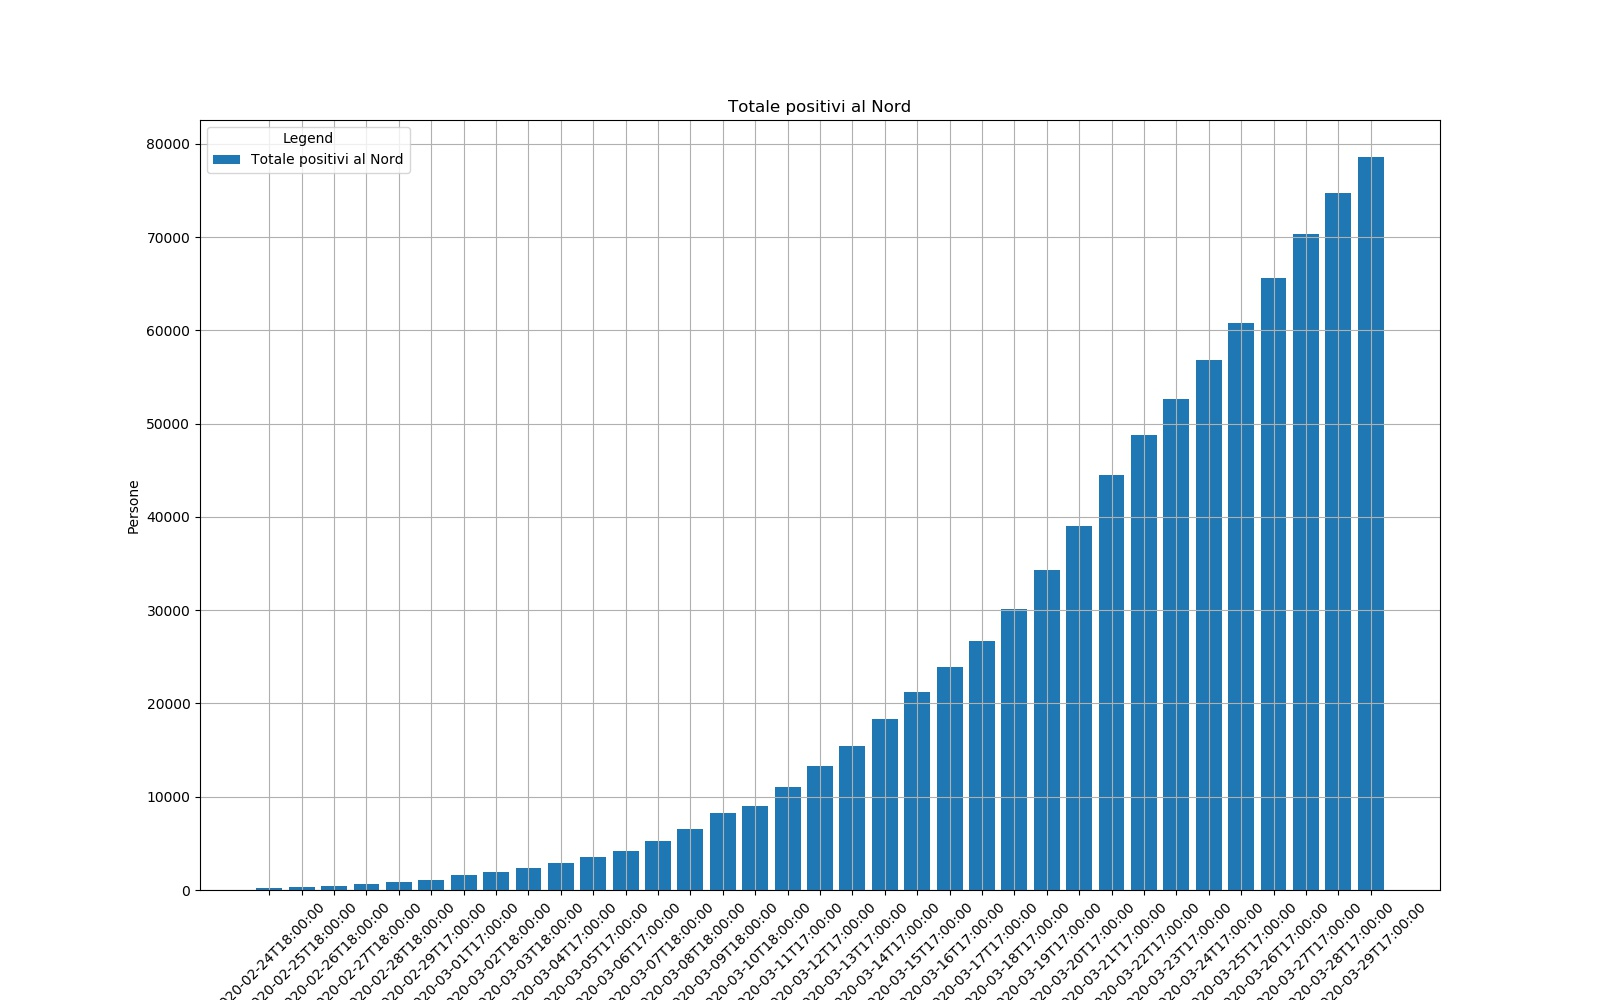
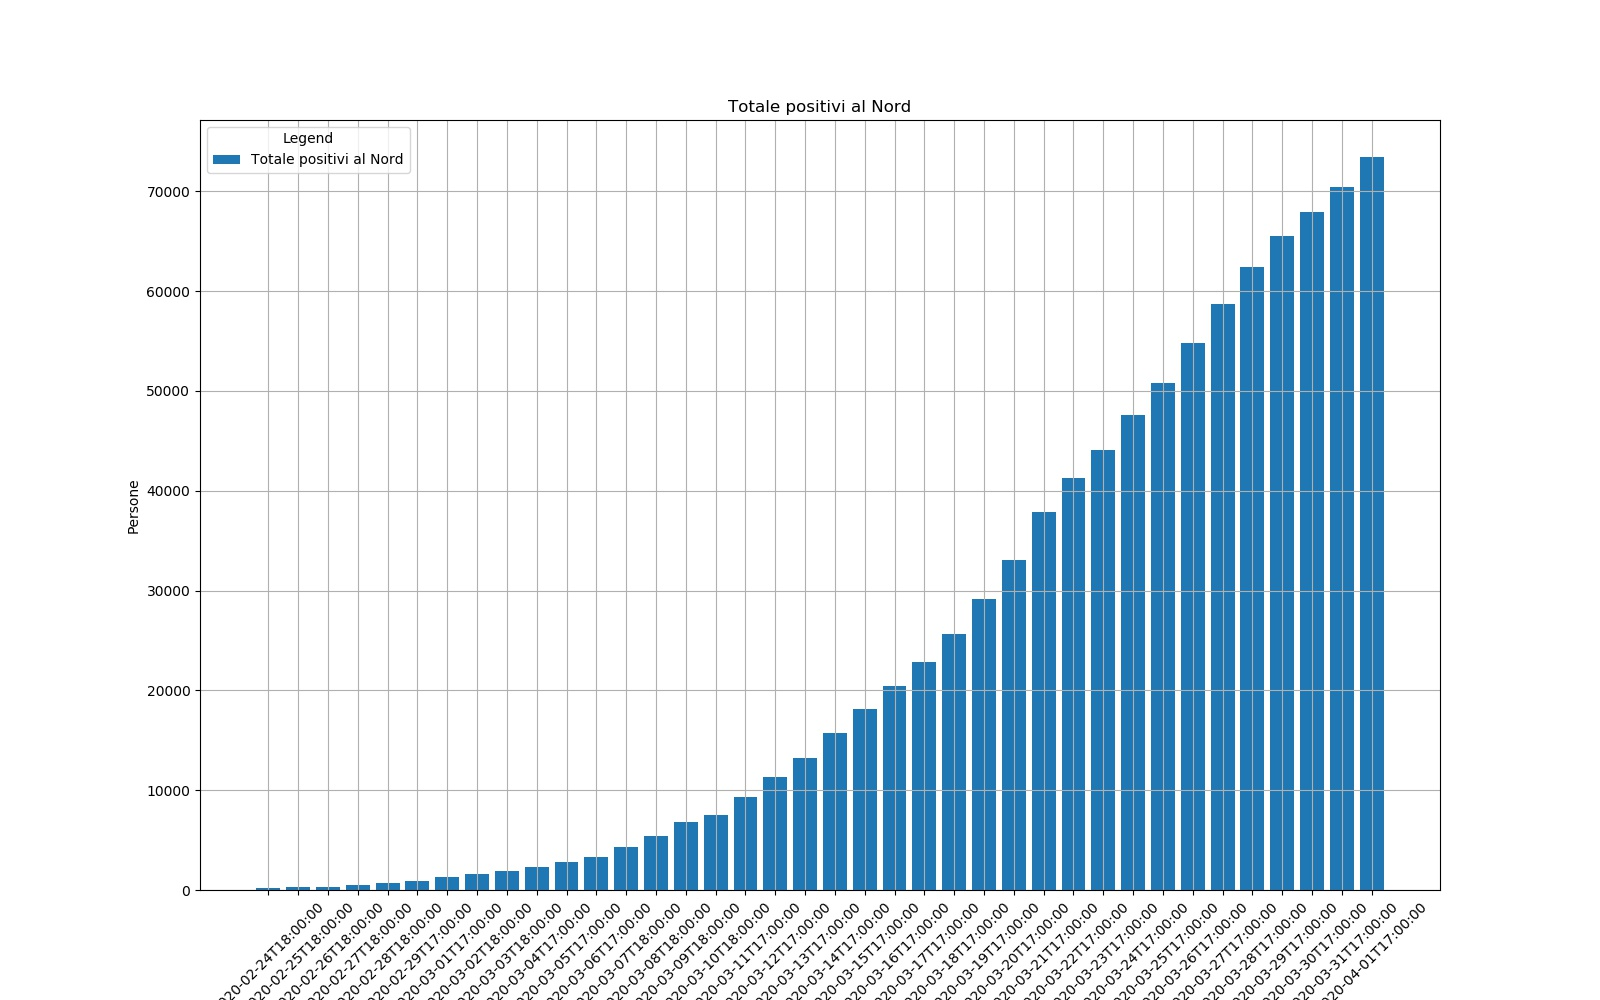
UPD: 01/04/2020

diff --git a/main.py b/main.py
@@ -63,7 +63,7 @@ for column in DataFrame:
         legend = column
         figname = str(column+".jpg")
         title = str(column).replace("_"," ")
-        if column == "nuovi_attualmente_positivi":
+        if column == "nuovi_positivi":
             bar(x, y, title, x_label, y_label, plot_x_size, plot_y_size, legend, figname)
         else:
             plot(x, y, title, x_label, y_label, plot_x_size, plot_y_size, legend, figname)
@@ -80,7 +80,7 @@ plot_y_size = 10
 # 4_Guariti diviso nuovi attualmente positivi
 
 x = [DataFrame.data, DataFrame.data, DataFrame.data, DataFrame.data]
-y = [DataFrame.deceduti/DataFrame.totale_casi*100, DataFrame.nuovi_attualmente_positivi, DataFrame.tamponi/DataFrame.totale_attualmente_positivi, DataFrame.dimessi_guariti/DataFrame.nuovi_attualmente_positivi]
+y = [DataFrame.deceduti/DataFrame.totale_casi*100, DataFrame.nuovi_positivi, DataFrame.tamponi/DataFrame.totale_positivi, DataFrame.dimessi_guariti/DataFrame.nuovi_positivi]
 x_label = ["Data", "Data", "Data", "Data"]
 y_label = ["Tasso decessi percentuale", "Casi positivi giornalieri", "Tamponi diviso Tot. attualmente positivi", "Guariti diviso nuovi attualmente positivi"]
 title = ["Tasso decessi percentuale", "Casi positivi giornalieri", "Tamponi diviso Tot. attualmente positivi", "Guariti diviso nuovi attualmente positivi"]
@@ -199,11 +199,11 @@ def analisi_CNS(DataFrame, DataFrame_regions):
         
     for region in regions:
         if region in ["Abruzzo", "Toscana", "Marche", "Umbria", "Lazio", "Molise"]:
-            df_centro[region] = df[df['denominazione_regione'].str.contains(str(region))].nuovi_attualmente_positivi.reset_index().nuovi_attualmente_positivi
+            df_centro[region] = df[df['denominazione_regione'].str.contains(str(region))].nuovi_positivi.reset_index().nuovi_positivi
         if region in ["Basilicata", "Campania", "Puglia", "Calabria", "Sicilia", "Sardegna"]:      
-            df_sud[region]=df_centro[region] = df[df['denominazione_regione'].str.contains(str(region))].nuovi_attualmente_positivi.reset_index().nuovi_attualmente_positivi
+            df_sud[region]=df_centro[region] = df[df['denominazione_regione'].str.contains(str(region))].nuovi_positivi.reset_index().nuovi_positivi
         if region in ["Liguria", "Piemonte", "Valle d'Aosta", "Lombardia", "P.A. Trento", "Friuli Venezia Giulia", "Veneto", "P.A. Bolzano", "Emilia Romagna"]:
-            df_nord[region]=df_centro[region] = df[df['denominazione_regione'].str.contains(str(region))].nuovi_attualmente_positivi.reset_index().nuovi_attualmente_positivi
+            df_nord[region]=df_centro[region] = df[df['denominazione_regione'].str.contains(str(region))].nuovi_positivi.reset_index().nuovi_positivi
  
     centro_nuovi_positivi=pd.DataFrame()
     centro_nuovi_positivi=df_centro.sum(axis=1)-df_nord.sum(axis=1)-df_sud.sum(axis=1)

diff --git a/prediction_sir_model.py b/prediction_sir_model.py
@@ -42,7 +42,7 @@ def calibration(DataFrame, N, max_error, beta_min=0.15, beta_max=0.45, gamma_den
         for gamma_den in np.arange(gamma_den_min, gamma_den_max, 0.1):
             gamma = 1 / gamma_den
             S, I, R, t = SIR_model(I0, R0, N, beta, gamma, t_max)
-            positivi_misurati = DataFrame.totale_attualmente_positivi
+            positivi_misurati = DataFrame.totale_positivi
             guariti_misurati = DataFrame.dimessi_guariti
             error_positivi = (I - positivi_misurati) / positivi_misurati
             error_guariti = (R - guariti_misurati) / guariti_misurati
@@ -59,7 +59,7 @@ def calibration(DataFrame, N, max_error, beta_min=0.15, beta_max=0.45, gamma_den
     I0 = 229
     R0 = 0
     S, I, R, t = SIR_model(I0, R0, N, beta, 1 / gamma_den, t_max=120)
-    positivi_misurati = DataFrame.totale_attualmente_positivi
+    positivi_misurati = DataFrame.totale_positivi
     tempo_misurati = range(0, t_max)
     plt_SIR_model(t, S, I, R, tempo_misurati, positivi_misurati, N, beta, gamma_den, Rknot, err_positivi)
     print("Calcolo al: 100%")
@@ -101,7 +101,7 @@ def plt_SIR_model(t, S, I, R, tempo_misurati, positivi_misurati, N, beta, gamma_
 #     DataFrame_regions = pd.read_csv(file_name_regions)
 #
 #     # Plot data
-#     positivi_misurati = DataFrame.totale_attualmente_positivi
+#     positivi_misurati = DataFrame.totale_positivi
 #     tempo_misurati = range(0, len(DataFrame.data))
 #
 #     # Parameters for calibration

diff --git a/multi-process-calibration.py b/multi-process-calibration.py
@@ -14,17 +14,17 @@ if __name__ == '__main__':
     DataFrame_regions = pd.read_csv(file_name_regions)
     t_max = len(DataFrame.data)
     # Plot data
-    positivi_misurati = DataFrame.totale_attualmente_positivi
+    positivi_misurati = DataFrame.totale_positivi
     tempo_misurati = range(0, len(DataFrame.data))
     # Parameters for calibration SIR Model
-    N_min, N_max, N_jump, max_error = 360000, 2000000, 5000, 0.3
+    N_min, N_max, N_jump, max_error = 360000, 450000, 10000, 0.3
     processes = [mp.Process(target=prediction_sir_model.calibration, args=(DataFrame, N, max_error,)) for N in range(N_min, N_max, N_jump)]
     for p in processes:
         p.start()
     for p in processes:
         p.join()
     # SEIR model
-    N_min, N_max, N_jump, max_error = 360000, 750000, 10000, 0.3
+    N_min, N_max, N_jump, max_error = 360000, 450000, 10000, 0.3
     processes = [mp.Process(target=prediction_seir_model.calibration, args=(DataFrame, N, max_error,)) for N in
                  range(N_min, N_max, N_jump)]
     for p in processes:

diff --git a/prediction_seir_model.py b/prediction_seir_model.py
@@ -88,7 +88,7 @@ def calibration(DataFrame, N, max_error, beta_min=0.15, beta_max=0.6, gamma_den_
     E0 = I0 = 229
     R0 = 0
     # Strumenti per calcolo errore
-    positivi_misurati = DataFrame.totale_attualmente_positivi
+    positivi_misurati = DataFrame.totale_positivi
     guariti_misurati = DataFrame.dimessi_guariti
     # Cicli di calibrazione
     for beta in np.arange(beta_min, beta_max, 0.05):
@@ -158,7 +158,7 @@ def plt_SEIR_model(t, S, E, I, R, tempo_misurati, positivi_misurati, N, beta, ga
 #     DataFrame_regions = pd.read_csv(file_name_regions)
 #
 #     # Plot data
-#     positivi_misurati = DataFrame.totale_attualmente_positivi
+#     positivi_misurati = DataFrame.totale_positivi
 #     tempo_misurati = range(0, len(DataFrame.data))
 #
 #     # Parameters for calibration
